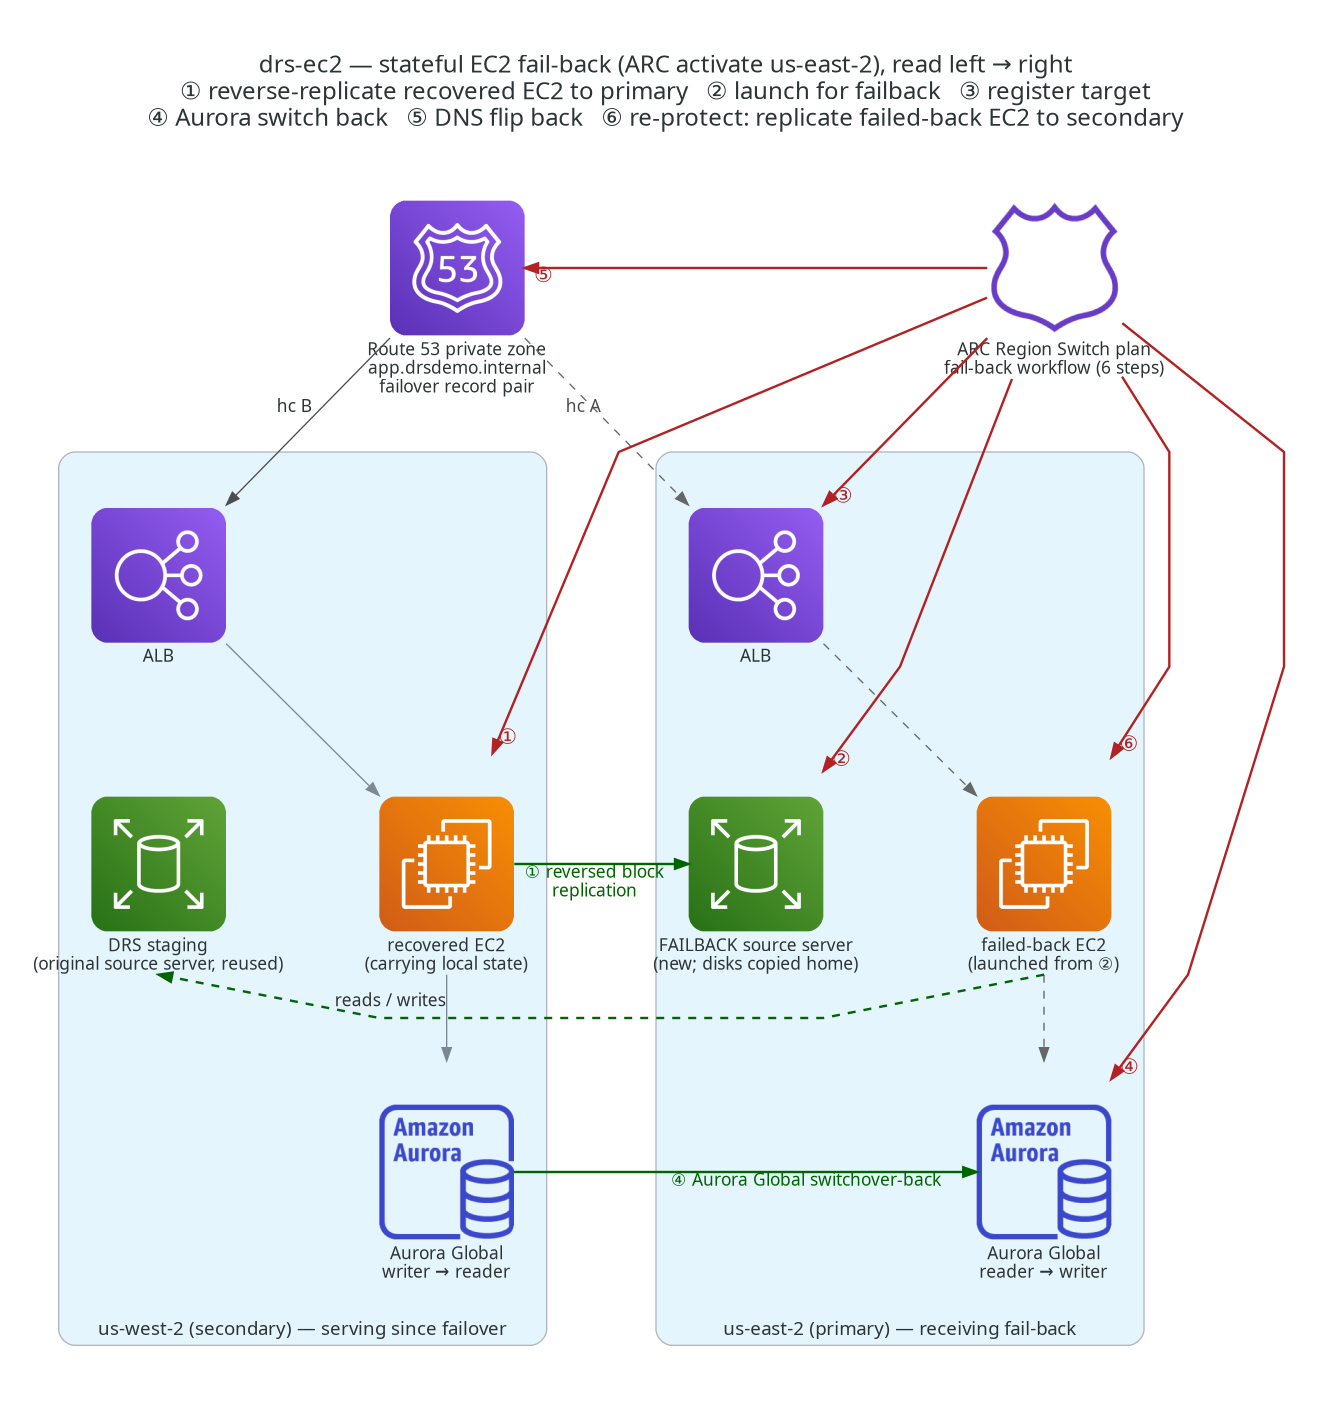
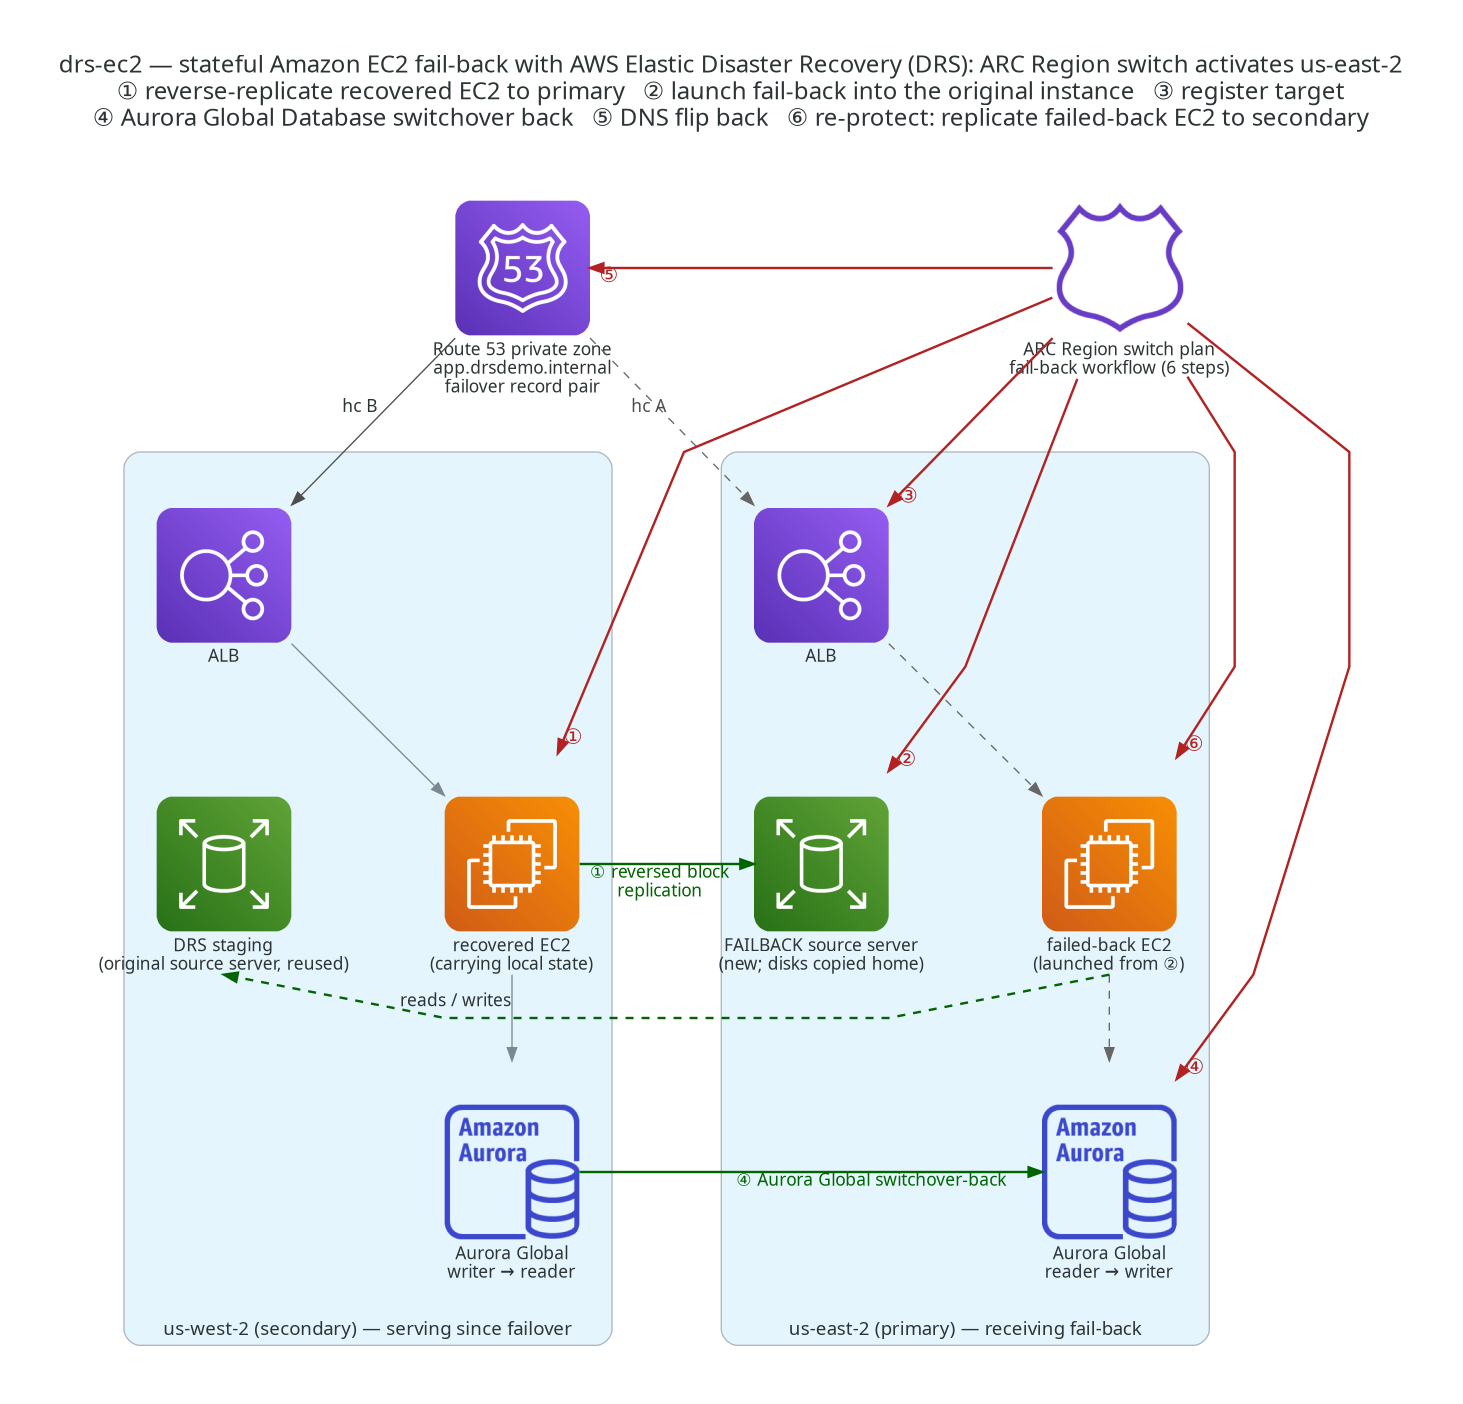
drs-ec2: Makefile help, script usage text and diagram labels for customers
Makefile: header names the services in full and drops the "protected,
dashboarded, failover-ready" claim; target descriptions say what each
target does with its duration ("the proven order" -> "deployment
order"; "Everything" -> the stacks, app code, DRS setup and check it
runs; "Tear down everything" -> what is deleted, where, how long).

Scripts: usage lines now match the arguments each script accepts
([aws-profile|-], optional legs/mode) -- cleanup.sh no longer calls
itself teardown.sh, drs-setup.sh loses the systemd-run wrapper note,
rehearse-switchover.sh and rehearse-cycle.sh describe the rehearsal and
its verification conditions instead of "proving" anything, tunnel.sh
keeps the plugin requirement and drops the laptop/ssh aside.

Diagrams: titles and captions spell out Amazon EC2, AWS Elastic
Disaster Recovery (DRS), Amazon Aurora Global Database, Amazon Route 53
and Amazon Application Recovery Controller (ARC) Region switch on first
use; "presenter" becomes "user"; the CLI-flag chatter leaves the ARC
node. Both PNGs regenerated from the edited generators (diagrams 0.x on
Graphviz) and checked visually; the mermaid sources carry the same
wording.

diff --git a/drs-ec2/scripts/gen-architecture-diagram.py b/drs-ec2/scripts/gen-architecture-diagram.py
@@ -34,14 +34,14 @@ DASH = {"style": "dashed", "color": "gray40", "fontcolor": "gray30"}
 CLUSTER = {"labelloc": "b", "labeljust": "c", "fontsize": "14", "margin": "24"}
 
 with Diagram(
-    "drs-ec2 — DRS + ARC Region Switch\n"
-    "ARC plan steps (red):  ① Aurora Global switch   ② DRS recover EC2   ③ register target   ④ DNS flip",
+    "drs-ec2 — Amazon EC2 disaster recovery with AWS Elastic Disaster Recovery (DRS) and Amazon Application Recovery Controller (ARC) Region switch\n"
+    "ARC plan steps (red):  ① Aurora Global Database switchover   ② DRS recover EC2   ③ register target   ④ DNS flip",
     filename=OUT, outformat="png", show=False, direction="TB", graph_attr=graph_attr,
 ):
-    # ---- observer: a third region standing in for the customer's user ----
+    # ---- observer: a third region standing in for the application's user ----
     OBS = dict(CLUSTER, labelloc="t")
     with Cluster("us-east-1 (observer) — no public IP, SSM only", graph_attr=OBS):
-        user = User("presenter\nlocalhost:8080/ui")
+        user = User("user\nlocalhost:8080/ui")
         bastion = SystemsManager("bastion t3.nano\nresolves the failover record")
         user >> Edge(label="SSM port-forward", constraint="false") >> bastion
 
@@ -49,12 +49,12 @@ with Diagram(
     dns = Route53("Route 53 private zone\napp.drsdemo.internal\nfailover record pair")
     # This diagrams release has no dedicated Application Recovery Controller icon; ARC Region
     # Switch drives Route 53 health-check state, so the Route 53 ARC family icon is the fit.
-    arc = Route53HostedZone("ARC Region Switch plan\n(--mode graceful | ungraceful)")
+    arc = Route53HostedZone("ARC Region switch plan\n(graceful | ungraceful)")
 
     # ---- primary column ----
     with Cluster("us-east-2 (primary) — serving at rest", graph_attr=CLUSTER):
         alb_e = ELB("internal ALB")
-        ec2_e = EC2("EC2 (Flask)\n+ DRS agent")
+        ec2_e = EC2("EC2 application\n+ DRS agent")
         aur_e = AuroraInstance("Aurora Global\nwriter")
         alb_e >> ec2_e >> Edge(xlabel="reads / writes") >> aur_e
 

diff --git a/drs-ec2/scripts/gen-failback-diagram.py b/drs-ec2/scripts/gen-failback-diagram.py
@@ -32,13 +32,13 @@ DASH = {"style": "dashed", "color": "gray40", "fontcolor": "gray30"}
 CLUSTER = {"labelloc": "b", "labeljust": "c", "fontsize": "14", "margin": "24"}
 
 with Diagram(
-    "drs-ec2 — stateful EC2 fail-back (ARC activate us-east-2), read left → right\n"
-    "① reverse-replicate recovered EC2 to primary   ② launch for failback   ③ register target\n"
-    "④ Aurora switch back   ⑤ DNS flip back   ⑥ re-protect: replicate failed-back EC2 to secondary",
+    "drs-ec2 — stateful Amazon EC2 fail-back with AWS Elastic Disaster Recovery (DRS): ARC Region switch activates us-east-2\n"
+    "① reverse-replicate recovered EC2 to primary   ② launch fail-back into the original instance   ③ register target\n"
+    "④ Aurora Global Database switchover back   ⑤ DNS flip back   ⑥ re-protect: replicate failed-back EC2 to secondary",
     filename=OUT, outformat="png", show=False, direction="TB", graph_attr=graph_attr,
 ):
     dns = Route53("Route 53 private zone\napp.drsdemo.internal\nfailover record pair")
-    arc = Route53HostedZone("ARC Region Switch plan\nfail-back workflow (6 steps)")
+    arc = Route53HostedZone("ARC Region switch plan\nfail-back workflow (6 steps)")
 
     # ---- primary column: being rebuilt from the secondary's data ----
     with Cluster("us-east-2 (primary) — receiving fail-back", graph_attr=CLUSTER):
